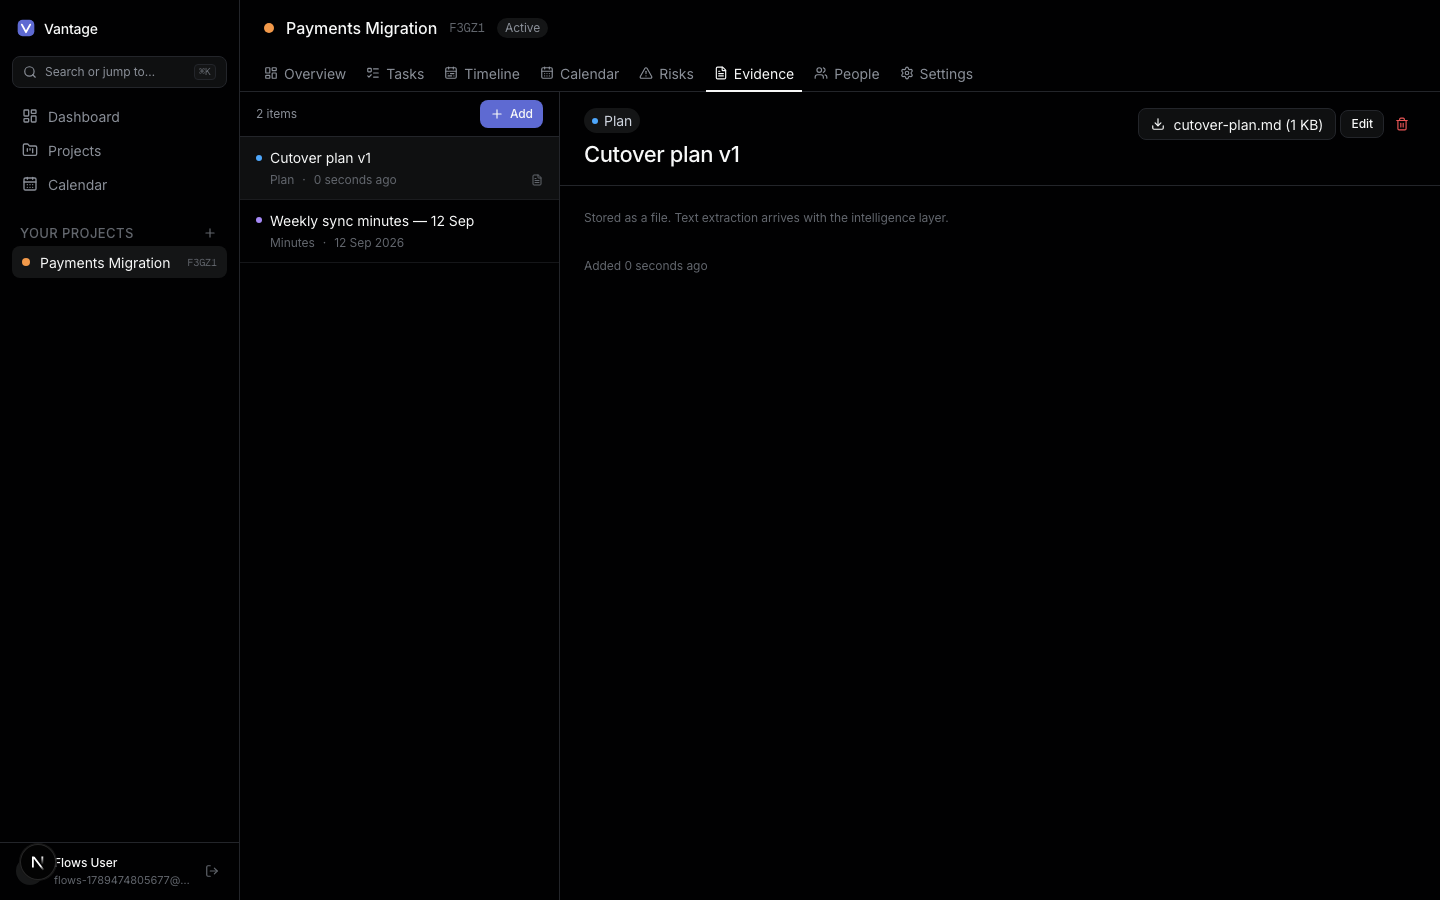
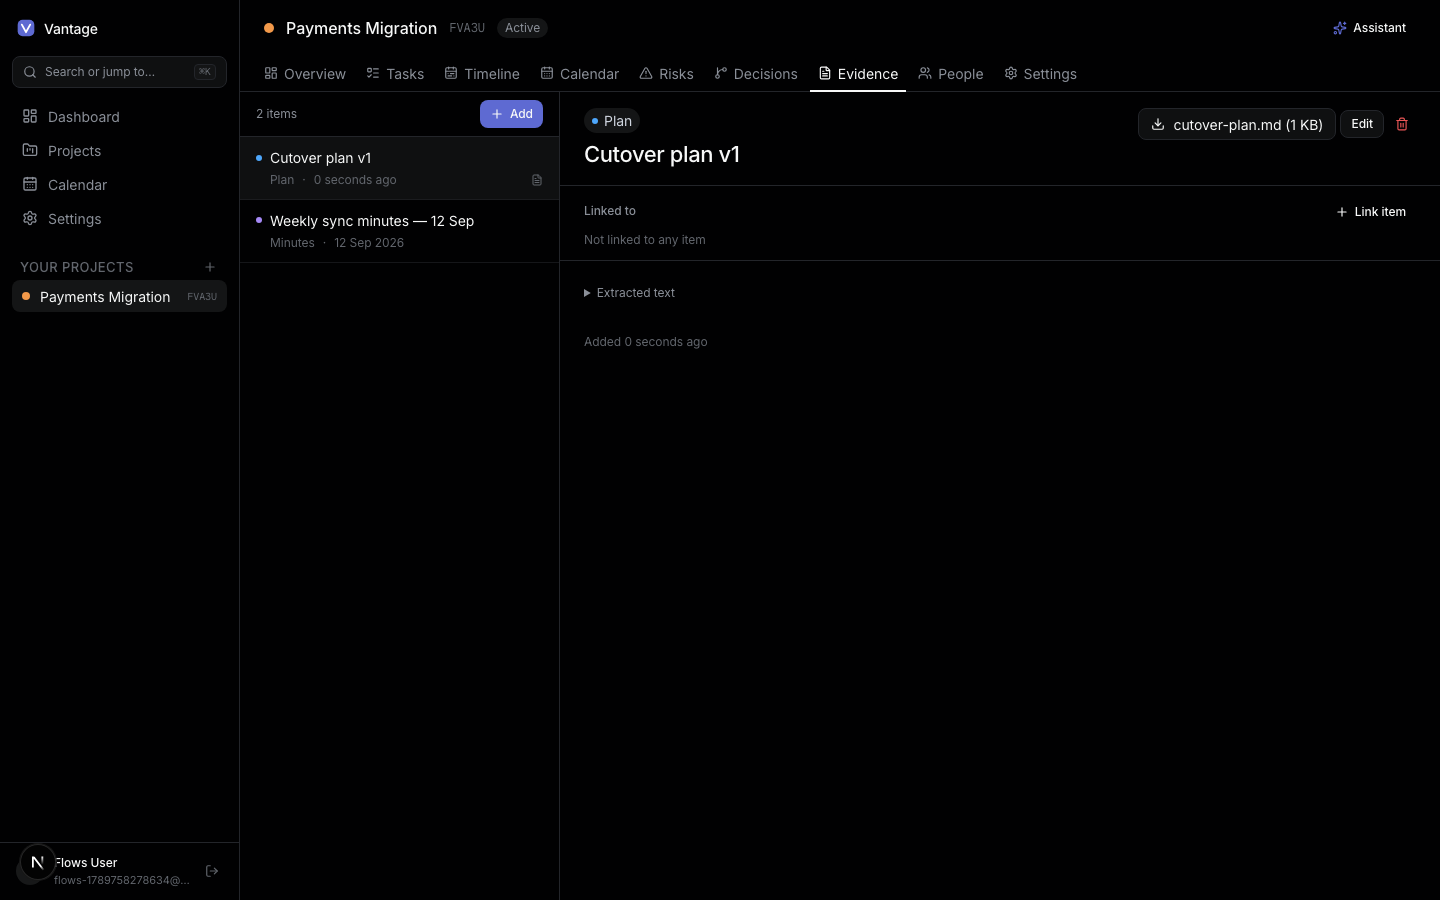
test(e2e): transcripts flow, docs row, screenshots
Paste a transcript, see its Passages, cite one from a new Decision, open it from the Source
chip and land on the Passage, see the Assistant's Proposal cite the same Passage, then edit
the transcript and watch the citation degrade to the whole item. Evidence screenshots are
refreshed because the Kind select gained Transcript.

diff --git a/e2e/flows.spec.ts b/e2e/flows.spec.ts
@@ -1143,3 +1143,105 @@ test.describe("graph", () => {
     await shot(page, "broken-path-highlight");
   });
 });
+
+// Runs after `proposals` and `graph`: it adds Evidence and a Decision that the earlier flows must not see.
+test.describe("transcripts", () => {
+  const shot = shots("transcripts");
+  const TRANSCRIPT = [
+    "[00:01:10] Priya: The merchant dataset slipped again, so the pilot cannot start on the 1st.",
+    "[00:02:30] Marcus: Then we cannot ship the export in the same release.",
+    "[00:03:45] Marcus: We decided to freeze scope after the pilot instead of adding the export.",
+    "[00:04:10] Priya: Agreed, revisit once the dataset lands.",
+  ].join("\n");
+
+  test("ingests a transcript as passages, cites one passage, opens it, proposes from it and degrades cleanly", async ({
+    page,
+  }) => {
+    await openProject(page, "Evidence");
+    await page.getByRole("button", { name: "Add", exact: true }).click();
+    const add = page.getByRole("dialog");
+    await add.getByLabel("Title").fill("Steering meeting transcript");
+    await add.getByLabel("Kind").selectOption("transcript");
+    await add.getByLabel("Source date").fill("2026-09-16");
+    await add.getByLabel("Pasted text").fill(TRANSCRIPT);
+    await add.getByRole("button", { name: "Add evidence" }).click();
+    await expect(add).toBeHidden();
+    await page.getByRole("button", { name: "Steering meeting transcript" }).click();
+    await expect(page).toHaveURL(/\/evidence\?item=/);
+    const passages = page.getByTestId("passage");
+    await expect(passages).toHaveCount(4);
+    await expect(passages.nth(2)).toContainText("Marcus");
+    await expect(passages.nth(2)).toContainText("00:03:45");
+    await expect(passages.nth(2)).toContainText("We decided to freeze scope after the pilot");
+    await expect(passages.nth(2)).not.toContainText("[00:03:45]");
+    await shot(page, "transcript-passages");
+
+    // Cite Marcus's turn from a new Decision.
+    await page.getByRole("main").getByRole("link", { name: "Decisions", exact: true }).click();
+    await expect(page).toHaveURL(/\/decisions$/);
+    await page.getByRole("button", { name: "New decision" }).click();
+    const dialog = page.getByRole("dialog", { name: "New decision" });
+    await dialog.getByLabel("Title").fill("Freeze scope after the pilot");
+    await dialog.getByLabel("Decided on").fill("2026-09-16");
+    await dialog.getByLabel("Chosen").fill("Freeze scope; the export waits for the next release");
+    await dialog.getByRole("button", { name: "Add source" }).click();
+    await dialog.getByPlaceholder("Search evidence, comments and activity…").fill("Steering meeting");
+    await dialog.getByRole("option", { name: /^Steering meeting transcript/ }).click();
+    await expect(dialog.getByPlaceholder(/Which passage of/)).toBeVisible();
+    await dialog.getByPlaceholder(/Which passage of/).fill("freeze scope");
+    await dialog.getByRole("option", { name: /We decided to freeze scope/ }).click();
+    const chip = dialog.getByTestId("source-chip");
+    await expect(chip).toContainText("Steering meeting transcript · Marcus");
+    await shot(page, "passage-source-picked");
+    await dialog.getByRole("button", { name: "Create decision" }).click();
+    await expect(dialog).toBeHidden();
+
+    // Opening the Source lands on the cited Passage.
+    await page.getByRole("row").filter({ hasText: "Freeze scope after the pilot" }).getByRole("cell").nth(1).click();
+    const edit = page.getByRole("dialog", { name: /D-\d+/ });
+    await expect(edit.getByTestId("source-chip")).toContainText("Steering meeting transcript · Marcus");
+    await edit.getByRole("link", { name: /Open source Steering meeting transcript · Marcus/ }).click();
+    await expect(page).toHaveURL(/\/evidence\?item=[0-9a-f-]{36}#passage-[0-9a-f-]{36}$/);
+    const cited = page.locator(`[id="${new URL(page.url()).hash.slice(1)}"]`);
+    await expect(cited).toContainText("We decided to freeze scope after the pilot");
+    await expect(cited).toBeInViewport();
+    await expect(cited).toHaveClass(/ring-1/);
+    await shot(page, "citation-opens-passage");
+
+    // The Assistant's pass (already run after the ingest; the button confirms nothing is left) cites the Passage too.
+    await page.getByRole("main").getByRole("link", { name: "Decisions", exact: true }).click();
+    await expect(page).toHaveURL(/\/decisions$/);
+    await page.getByTestId("propose-from-evidence").click();
+    await expect(page.getByText(/proposed from|Nothing new/)).toBeVisible();
+    await page.getByRole("main").getByRole("link", { name: "Overview", exact: true }).click();
+    const card = page.getByTestId("proposal-card").filter({ hasText: "freeze scope after the pilot" });
+    await expect(card).toContainText("Steering meeting transcript · Marcus");
+    await shot(page, "proposal-cites-passage");
+    await card.getByTestId("reject-proposal").click();
+    await expect(card).toHaveCount(0);
+
+    // Editing the transcript re-segments it; the citation degrades to the whole item, never an error.
+    await page.getByRole("main").getByRole("link", { name: "Evidence", exact: true }).click();
+    await page.getByRole("button", { name: "Steering meeting transcript" }).click();
+    await expect(page).toHaveURL(/\/evidence\?item=/);
+    await expect(page.getByRole("heading", { name: "Steering meeting transcript" })).toBeVisible();
+    await page.getByRole("button", { name: "Edit", exact: true }).click();
+    const editEvidence = page.getByRole("dialog", { name: "Edit evidence" });
+    await editEvidence.getByLabel("Pasted text").fill(`${TRANSCRIPT}\n[00:05:00] Marcus: Noted.`);
+    await editEvidence.getByRole("button", { name: "Save changes" }).click();
+    await expect(editEvidence).toBeHidden();
+    await expect(page.getByTestId("passage")).toHaveCount(5);
+    await page.getByRole("main").getByRole("link", { name: "Decisions", exact: true }).click();
+    await page.getByRole("row").filter({ hasText: "Freeze scope after the pilot" }).getByRole("cell").nth(1).click();
+    const degraded = page.getByRole("dialog", { name: /D-\d+/ }).getByTestId("source-chip");
+    await expect(degraded).toHaveText(/^Steering meeting transcript\s*Evidence$/);
+    await expect(degraded).not.toContainText("Marcus");
+    await page
+      .getByRole("dialog", { name: /D-\d+/ })
+      .getByRole("link", { name: /Open source/ })
+      .click();
+    await expect(page).toHaveURL(/\/evidence\?item=[0-9a-f-]{36}#evidence-[0-9a-f-]{36}$/);
+    await expect(page.getByRole("heading", { name: "Steering meeting transcript" })).toBeVisible();
+    await shot(page, "degraded-to-whole-document");
+  });
+});

diff --git a/docs/flows.md b/docs/flows.md
@@ -22,6 +22,7 @@ E2E_NO_SERVER=1 npx playwright test e2e/flows.spec.ts
 | `impact`          | Add a "Leads to" item, move the UAT Milestone before the assumed date (no alert), then past it: impact alert names the Assumption, reason, Decision with its Source, downstream Milestone and Task; dismiss; Assumption stays broken                                                                                                         | [impact](./impact/screenshots)                   |
 | `proposals`       | Paste minutes with a decision sentence, run "Propose from evidence" (heuristic extractor, `PROPOSALS_EXTRACTOR=heuristic`), edit-and-accept via the dialog with "via Assistant" in History, one-click accept, reject, idempotent re-run, acceptance rate                                                                                     | [proposals](./proposals/screenshots)             |
 | `graph`           | Open the graph from a Decision row: causes left, consequences right, the broken Assumption and its edge highlighted; "Centre here" re-centres on the Assumption (no causes, watched Milestone follows); break an external-rule Assumption by hand and follow "Show me why" from the alert; re-centre on D-2 with the broken path highlighted | [graph](./graph/screenshots)                     |
+| `transcripts`     | Paste a transcript (kind Transcript): the item renders speaker- and timestamp-labelled passages; a Decision cites one passage from the Source picker and "Open" scrolls to it; "Propose from evidence" cites the same passage; editing the transcript re-segments it and the citation degrades to the whole item                             | [transcripts](./transcripts/screenshots)         |
 | `why-did-we`      | Model-backed, manual (not in the Playwright suite): ask the Assistant why a Decision was made; answer cites the Evidence Source and the Decision as links, the link opens the Evidence, a question with no recorded Decision gets "There is no recorded decision" plus nearest Evidence, a superseded Decision names its successor           | [why-did-we](./why-did-we/screenshots)           |
 | `overview`        | Project Overview lists Activity Events for the above; workspace Dashboard lists the Project                                                                                                                                                                                                                                                  | [overview](./overview/screenshots)               |
 | `calendar`        | Workspace and project Calendars show Task due dates and Milestones; clicking an event opens the Task                                                                                                                                                                                                                                         | [calendar](./calendar/screenshots)               |
